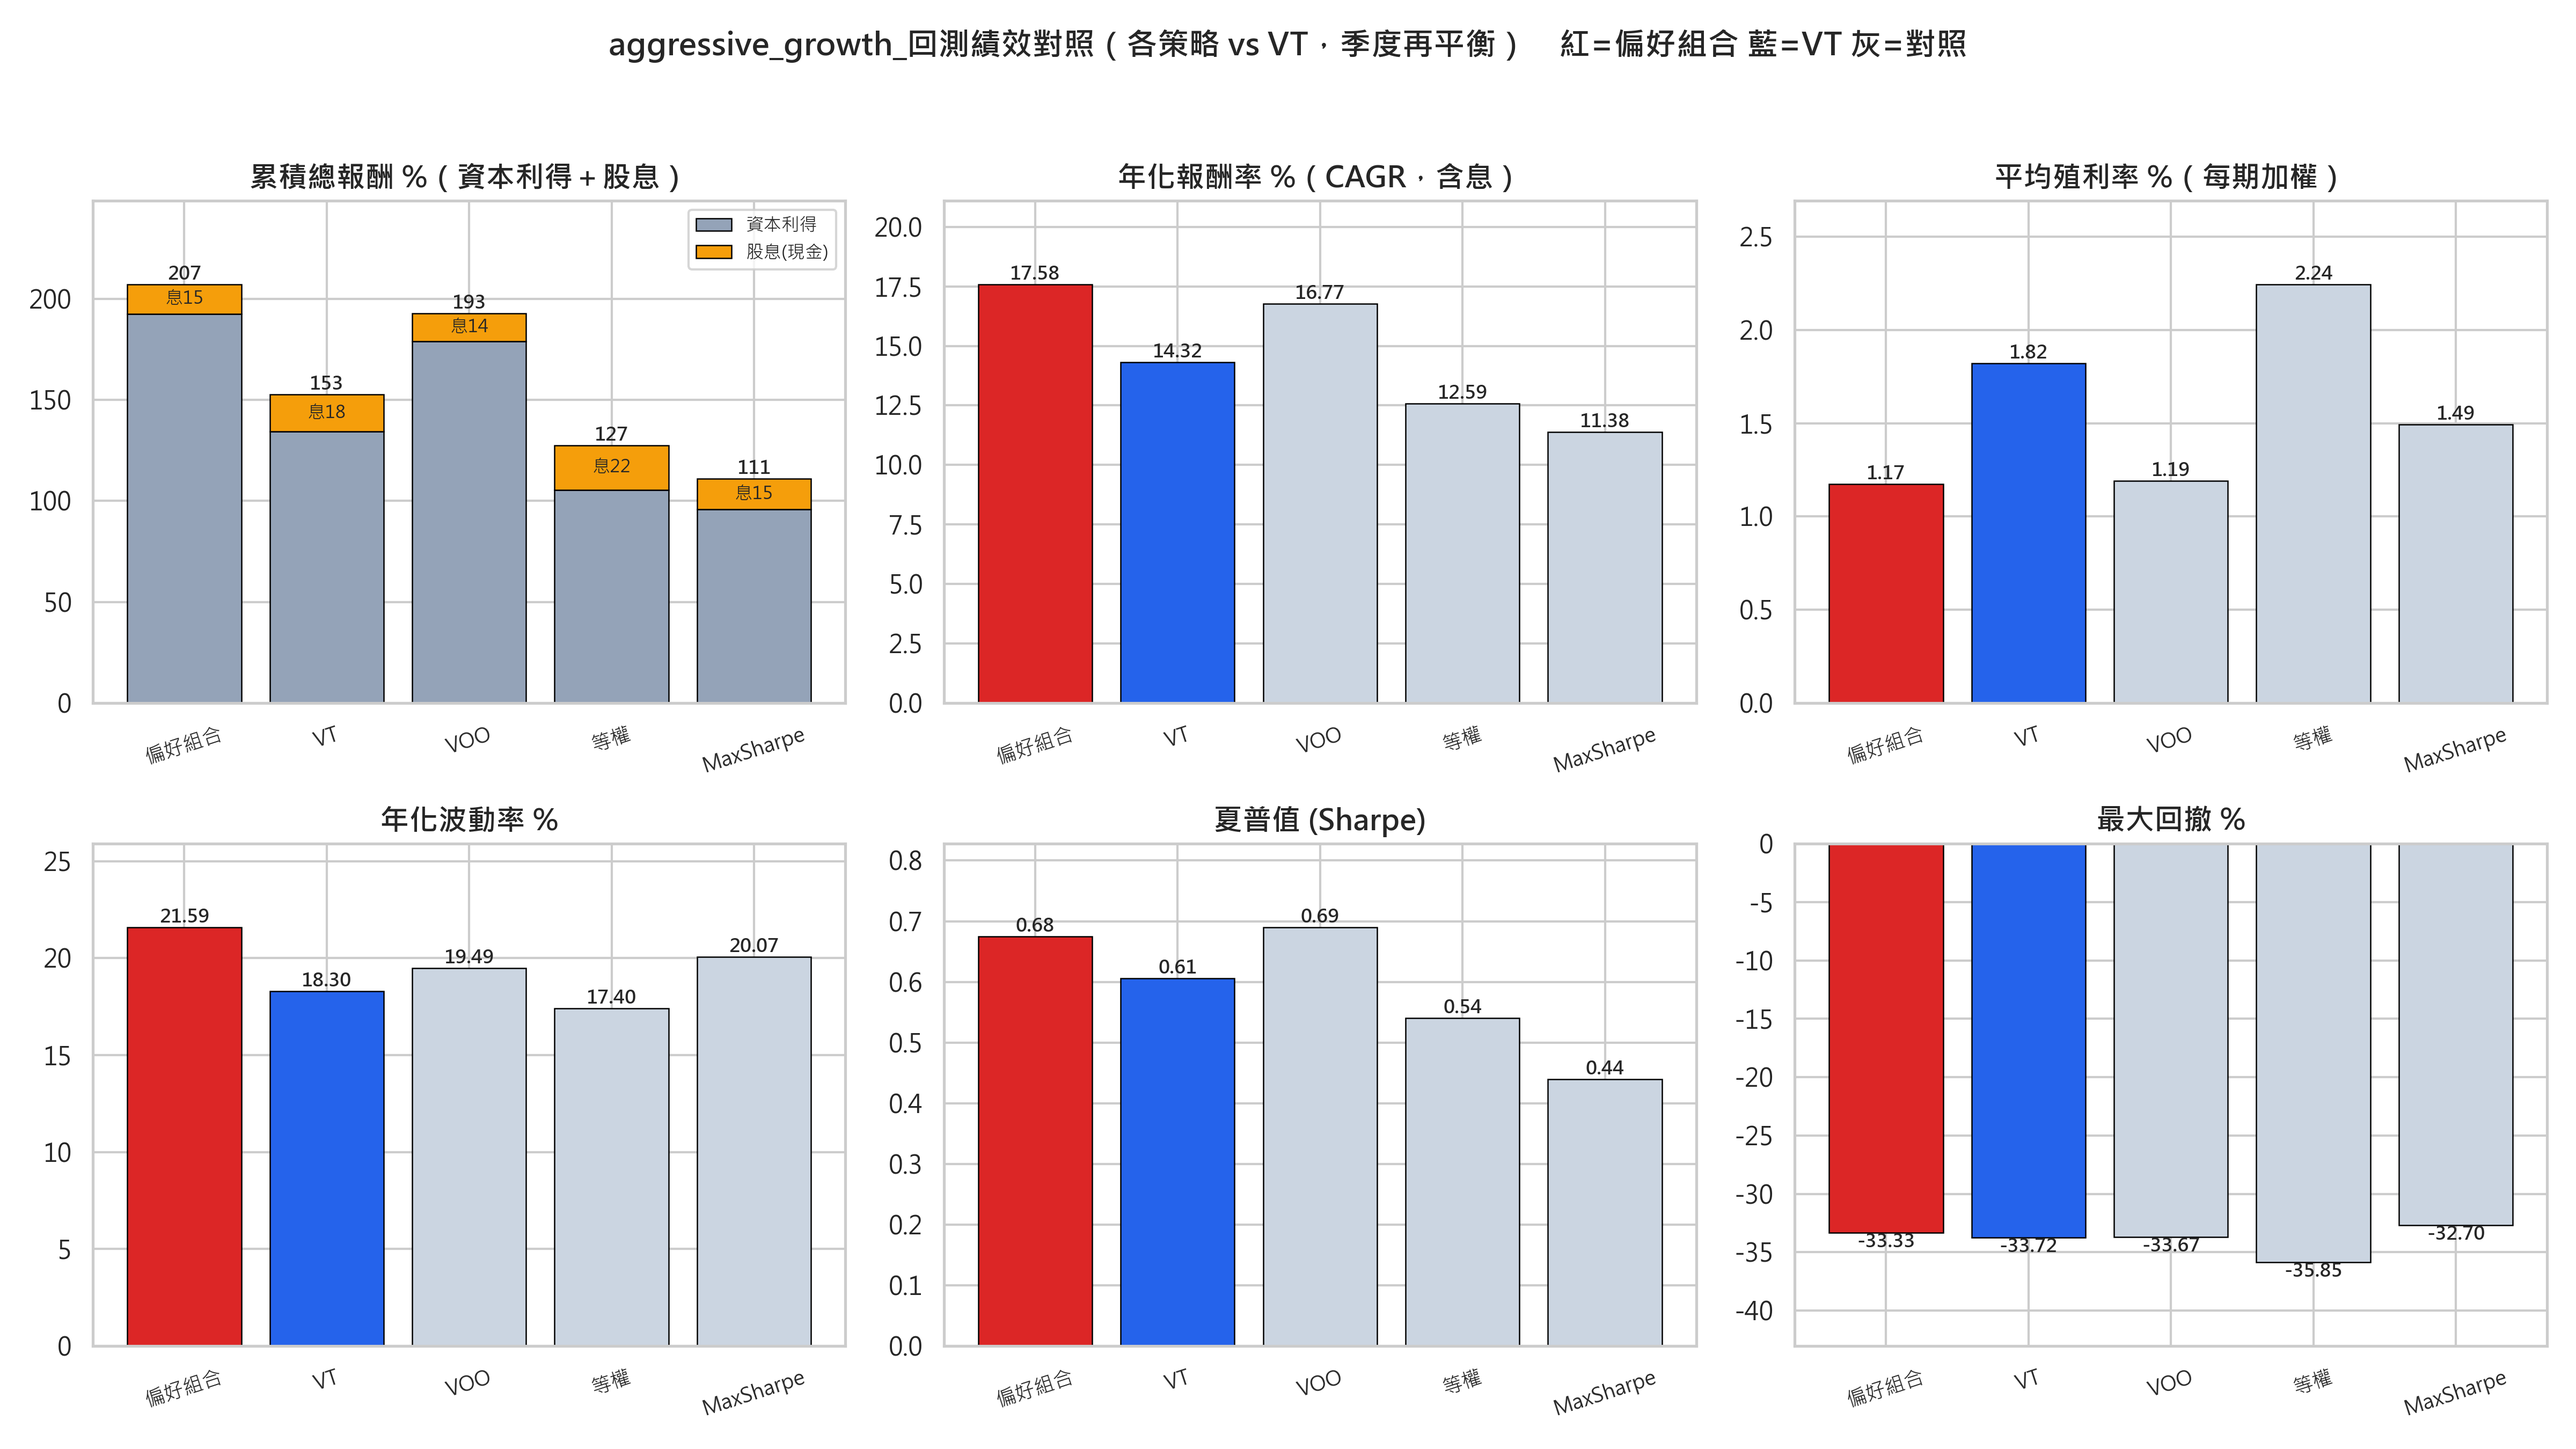
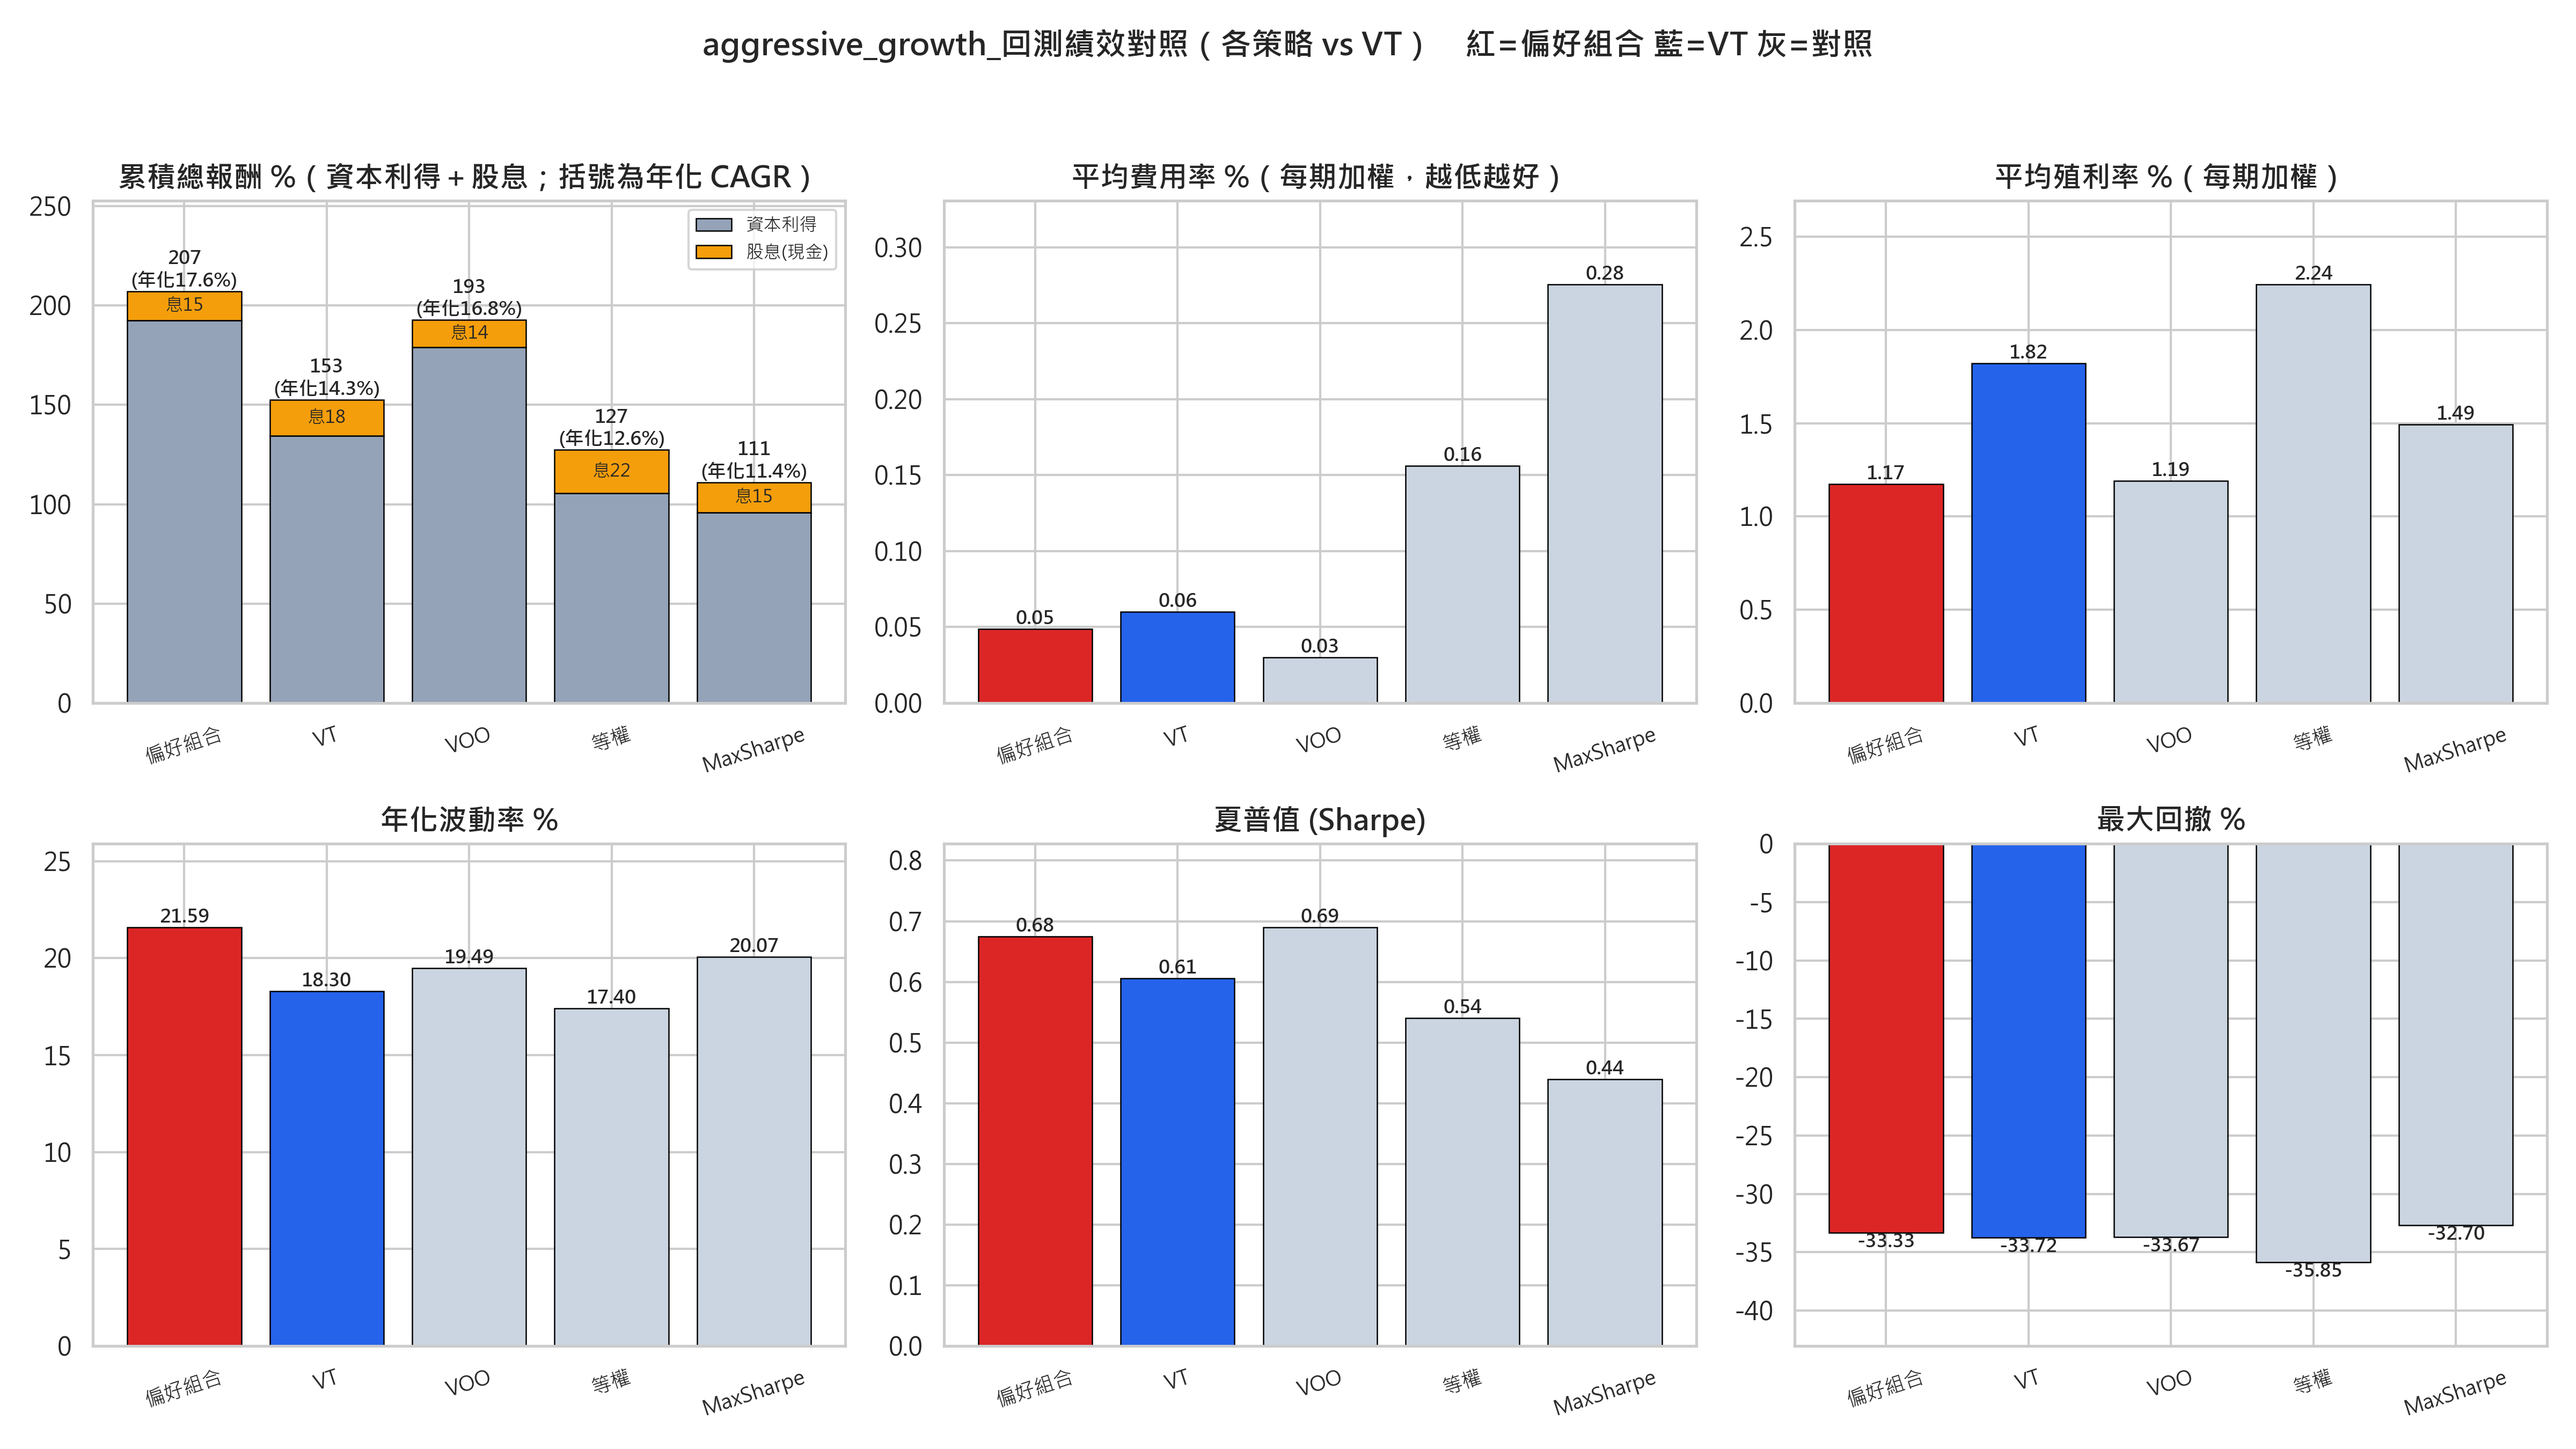
metrics chart: fold CAGR into cumulative-return bars, replace CAGR panel with avg expense ratio
- Panel 1 (cumulative return) now annotates each bar with its annualized CAGR
  in parentheses, e.g. '118 (年化11.9%)'.
- Removed the redundant standalone CAGR panel; replaced it with '平均費用率'
  (average expense ratio, lower-is-better) from dimension_comparison.
- Yield/vol/Sharpe/MaxDD panels unchanged; dropped the hardcoded '季度' from the
  title since rebalance frequency varies. Regenerated all 7 showcase charts.

Investigations (documented in change log; both not bugs):
- cost win_VT=0% this run vs high for cost_liquidity profile: tilt strength
  τ=0.30·(1-T_growth)·R is gated by R (return-dim weight). This run set returns
  ~0 -> τ≈0.004 -> near-pure minvar that ignores the cost preference. Profile
  had R=0.28 -> τ=0.044. Design property of g(w), optimizer untouched.
- MaxDD/VT changed across runs: VT MaxDD is measured over each run's window;
  different rebalance freq -> different start (2019-07-01 vs 2019-12-31) -> ~-34%
  but not identical.

diff --git a/backtest_engine.py b/backtest_engine.py
@@ -1693,7 +1693,7 @@ def _plot_dea_distribution_backtest(dea_results: pd.DataFrame, output_path: Path
 def _plot_backtest_metrics_comparison(summary_df: pd.DataFrame, dimension_df: "pd.DataFrame | None",
                                       output_path: Path, title_prefix: str = "") -> None:
     """把回測關鍵數據畫成「各策略 vs VT」對照圖（取代看 CSV）：
-    累積總報酬(資本利得+股息堆疊) / 年化報酬(含息) / 平均殖利率 / 年化波動 / 夏普 / 最大回撤。
+    累積總報酬(資本利得+股息堆疊，括號標年化 CAGR) / 平均費用率 / 平均殖利率 / 年化波動 / 夏普 / 最大回撤。
     偏好組合(紅)、VT(藍)highlight，其餘對照組(灰)；股息以金色堆疊，讓收入型偏好是否被滿足一眼可見。
     """
     if summary_df is None or summary_df.empty or "Strategy" not in summary_df.columns:
@@ -1712,14 +1712,14 @@ def _plot_backtest_metrics_comparison(summary_df: pd.DataFrame, dimension_df: "p
     xs = list(range(len(order)))
     xt = [label.get(s, s) for s in order]
 
-    # 每期加權「平均殖利率」取自 dimension comparison（收入型招牌指標）
-    ydiv = None
+    # 維度層級指標（平均殖利率 / 平均費用率）取自 dimension comparison
+    dim_src = None
     if dimension_df is not None and not getattr(dimension_df, "empty", True):
         dd = dimension_df.copy()
         if "Strategy" not in dd.columns and dd.index.name == "Strategy":
             dd = dd.reset_index()
-        if "Strategy" in dd.columns and "Avg_Raw_Dividend_Yield_%" in dd.columns:
-            ydiv = dd.drop_duplicates(subset="Strategy").set_index("Strategy")
+        if "Strategy" in dd.columns:
+            dim_src = dd.drop_duplicates(subset="Strategy").set_index("Strategy")
 
     def _num(src, s, col):
         try:
@@ -1753,25 +1753,32 @@ def _plot_backtest_metrics_comparison(summary_df: pd.DataFrame, dimension_df: "p
         ax.bar(xs, dv, bottom=cg, color="#F59E0B", edgecolor="black", linewidth=0.6, label="股息(現金)")
         for i in xs:
             tot = cg[i] + dv[i]
-            ax.annotate(f"{tot:.0f}", (i, tot), ha="center", va="bottom", fontsize=8.5, fontweight="bold")
+            cagr_i = _num(df, order[i], "CAGR_%")
+            lbl = f"{tot:.0f}" + (f"\n(年化{cagr_i:.1f}%)" if cagr_i == cagr_i else "")
+            ax.annotate(lbl, (i, tot), ha="center", va="bottom", fontsize=8.5, fontweight="bold")
             if dv[i] > 4:
                 ax.annotate(f"息{dv[i]:.0f}", (i, cg[i] + dv[i] / 2), ha="center", va="center", fontsize=8)
-        ax.set_title("累積總報酬 %（資本利得＋股息）", fontsize=13, fontweight="bold")
+        ax.set_title("累積總報酬 %（資本利得＋股息；括號為年化 CAGR）", fontsize=13, fontweight="bold")
         ax.set_xticks(xs); ax.set_xticklabels(xt, rotation=18, fontsize=9)
-        ax.legend(fontsize=8, loc="upper right"); ax.margins(y=0.20)
+        ax.legend(fontsize=8, loc="upper right"); ax.margins(y=0.22)
     else:
         simple_bar(ax, "Cumulative_Return_%", "累積總報酬 %（含息）")
 
-    simple_bar(axes[1], "CAGR_%", "年化報酬率 %（CAGR，含息）")
-    if ydiv is not None:
-        simple_bar(axes[2], "Avg_Raw_Dividend_Yield_%", "平均殖利率 %（每期加權）", src=ydiv)
+    # (2) 平均費用率（取代原 CAGR 欄；CAGR 已併入累積總報酬長條的括號標籤）
+    if dim_src is not None and "Avg_Raw_Expense_Ratio_%" in dim_src.columns:
+        simple_bar(axes[1], "Avg_Raw_Expense_Ratio_%", "平均費用率 %（每期加權，越低越好）", src=dim_src)
+    else:
+        axes[1].axis("off")
+    # (3) 平均殖利率
+    if dim_src is not None and "Avg_Raw_Dividend_Yield_%" in dim_src.columns:
+        simple_bar(axes[2], "Avg_Raw_Dividend_Yield_%", "平均殖利率 %（每期加權）", src=dim_src)
     else:
         simple_bar(axes[2], "Dividend_Income_Return_%", "累積股息報酬 %")
     simple_bar(axes[3], "Annualized_Volatility_%", "年化波動率 %")
     simple_bar(axes[4], "Sharpe", "夏普值 (Sharpe)")
     simple_bar(axes[5], "Max_Drawdown_%", "最大回撤 %")
 
-    fig.suptitle(f"{title_prefix}回測績效對照（各策略 vs VT，季度再平衡）　紅=偏好組合 藍=VT 灰=對照",
+    fig.suptitle(f"{title_prefix}回測績效對照（各策略 vs VT）　紅=偏好組合 藍=VT 灰=對照",
                  fontsize=14, fontweight="bold")
     plt.tight_layout(rect=(0, 0, 1, 0.95))
     plt.savefig(output_path, dpi=300)

diff --git a/system_upgrade_records/02_algorithm_upgrade_change_log.md b/system_upgrade_records/02_algorithm_upgrade_change_log.md
@@ -1101,6 +1101,15 @@ VT 參考 CAGR 13.51%。問題：傾斜目標 s 含資本利得排名(Norm_Retur
 - **字體再放大（第一頁）**：welcome 18px/標題 23、guide 15.5、hint 14、field 標籤 14.5、欄位輸入 inherit(17.5)。
 - **動態背景加強**：漸層色更飽和（少白）、`background-size 300→400%`、動畫 `26s→18s`，效果更明顯（仍只動 background-position、GPU 友善、reduced-motion 自動關）。
 
+## 2026-06-06：metrics_comparison 圖改版（CAGR 併入累積報酬、加平均費用率）+ 兩問查核
+
+### 圖表（使用者要求）
+- `_plot_backtest_metrics_comparison`：① 累積總報酬長條的每根上方**加註年化 CAGR**（如「118 (年化11.9%)」）；② **刪除原「年化報酬率 CAGR」子圖**（與累積報酬重複），改放**「平均費用率 %（每期加權，越低越好）」**（取 `dimension_comparison` 的 `Avg_Raw_Expense_Ratio_%`）；③ 殖利率/波動/夏普/最大回撤維持。suptitle 移除寫死的「季度再平衡」（頻率會變）。7 張 showcase 已重生驗證。
+
+### 查核（回應使用者兩問，皆非 bug）
+- **Q1：低成本勝率時而高、本次卻 0%** —— 根因是 g(w) 的**傾斜強度 τ = 0.30·(1−T_growth)·R**，其中 **R = 報酬兩維權重(CAGR+股息)**。本次使用者把報酬權重幾乎設 0 → R=0.015 → **τ=0.004（傾斜≈關閉）** → 系統幾乎只做純 minvar（挑低波動 ETF：USMV/HDV/XLP…），**沒有往「低成本」傾斜** → 費用率輸 VT。對照 `cost_liquidity` 原型 R=0.28 → τ=0.044（10×）→ 強力往成本/流動性傾斜 → 贏。**＝設計特性（非 bug）**：報酬無感的使用者，其「成本/分散/流動性」偏好幾乎不被傾斜表達。若要改善需動 g(w)（讓 τ 也吃非報酬偏好質量），屬最佳化器改動、需另行 A/B + 批准，本次**未動**、僅記錄。
+- **Q2：MaxDD 變了、VT 也變** —— VT MaxDD 非固定常數，是「**本次回測視窗**」內量的。兩次再平衡頻率不同（income 季度起點 2019-07-01；本次年度起點 2019-12-31）→ 視窗/再平衡格點不同 → VT 回撤 −33.72% vs −34.00%、系統投組與視窗亦不同。各自正確。
+
 ## 6. 改動紀錄模板
 
 ## 7. 下一個聊天室交接注意事項
